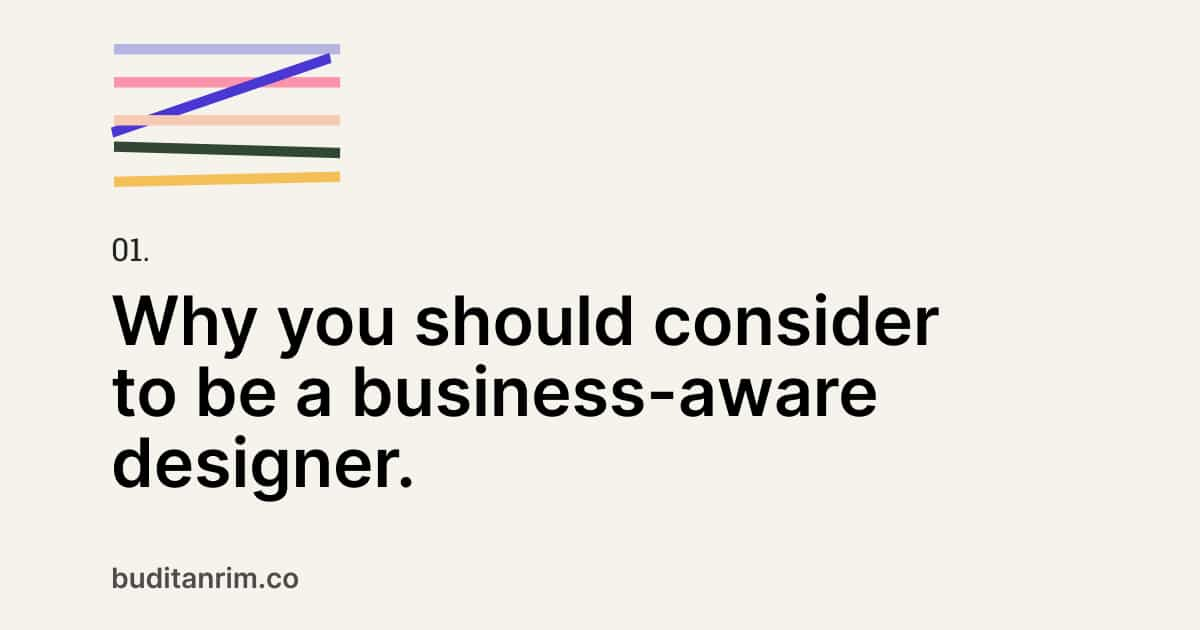
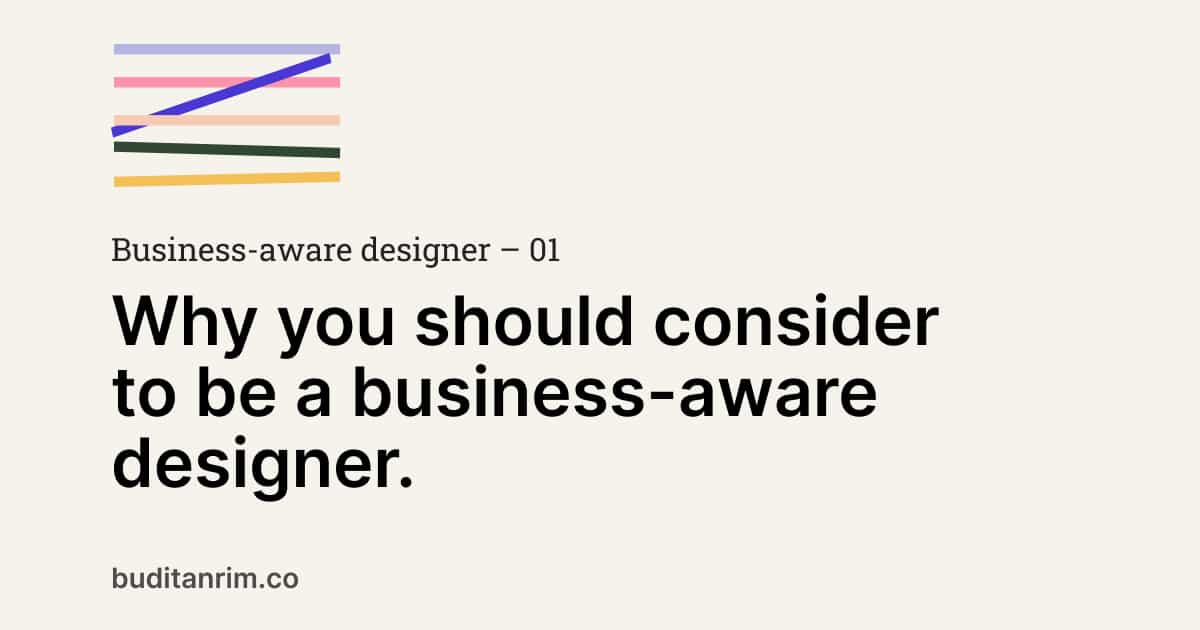
value prop

Changed region(s): [[0.0925, 0.3619, 0.4625, 0.4222]]

diff --git a/_layouts/post-index.html b/_layouts/post-index.html
@@ -23,7 +23,7 @@
 		{% for post in site.posts limit:1 %}
 		<article id="post-inner" class="col-sm-12 col-md-12 col-lg-7 col-xl-6 offset-lg-1 p-b-m mobile-p-b-xs order-lg-2">
 			<div class="post-inner--heading m-b-m">
-					<p class="t--mono-02 m-b-s">{{post.date | date:'%b %d, %Y'}}</p>
+					<p class="t--mono-02 m-b-xs">{{post.date | date:'%b %d, %Y'}}</p>
 				{% if post.punchline %}
 					<h1 class="post-inner--title t--title-01-serif">{{post.title}}</h1>
 					<p class="post-inner--subtitle t--subtitle-01 t--color-secondary m-t-01 m-b-s p-r-l">{{post.subtitle}}</p>

diff --git a/_layouts/post.html b/_layouts/post.html
@@ -4,7 +4,7 @@
 	<div class="row p-t-l mobile-p-t-m">
 		<article id="post-inner" class="col-sm-12 col-md-12 col-lg-7 offset-lg-1 col-xl-6 p-b-m mobile-p-b-xs order-lg-2">
 			<div class="post-inner--heading m-b-m">
-					<p class="t--mono-02 m-b-s">{{page.date | date:'%b %d, %Y'}}</p>
+					<p class="t--mono-02 m-b-xs">{{page.date | date:'%b %d, %Y'}}</p>
 				{% if page.punchline %}
 					<h1 class="post-inner--title t--title-01-serif">{{page.title}}</h1>
 					<p class="post-inner--subtitle t--subtitle-01 t--color-secondary m-t-01 m-b-s p-r-l">{{page.subtitle}}</p>

diff --git a/_posts/2021-01-27-business-aware-designer-value-proposition.md b/_posts/2021-01-27-business-aware-designer-value-proposition.md
@@ -1,0 +1,81 @@
+---
+layout: post
+title: "Business aware designer – Value proposition"
+punchline: true
+description: "x"
+date: 2021-01-27 08:30:00 +0700
+categories: business
+tags: value proposition
+author: "Budi Tanrim"
+
+image:
+ path: /img/seo/business-aware-02.jpg
+ height: 630
+ width: 1200
+gif: false
+twitter-seo: 
+ - "seo/business-aware-02.jpg"
+---
+
+If you are interested in broadening your view in business. My first goal in this [business-aware designer series][link-prev] is to introduce you to a few business concepts through the design lens.
+
+Today, let’s talk about the value proposition. It commonly used as:
+- A marketing communication tool
+- An alignment tool for your team on how to beat the competition
+
+---
+
+## Value proposition as an alignment tool
+A value proposition statement describes how your product or service will better solve customers' problems than other similar offerings. It's an effective tool to help your team reflect on how to win the competition.
+
+I like to see it as an alignment tool with the business team to understand (a) who are we targeting, (b) what’s their current frustration, and (c) why are we better than other products.
+
+User research have a big opportunity to contribute here. Qualitatively, you need to find three things:
+- **The job to be done:** Users' goal and overall motivation
+- **The current journey:** The current way users accomplish their goal
+- **The user problems and needs:** The problem from the existing journey
+
+As you synthesize the findings, I'd encourage to put them in the journey map. Make it simple, so non-designers can follow along. Your goal is to illustrate the customer's pain, why it happens, and how it fits in the journey.
+
+<div class="img-wrapper m-b-m">
+    <img src="https://buditanrim.co/img/post/2021/01/value-prop-journey.jpg" alt="journey for synthesize" class="illustration" />
+</div>
+
+---
+
+## The statement
+The statement can be a good reminder tool as your project progressing:
+
+<!-- **For** (target audience)<br/>
+**Who aren’t satisfied with** (current offer)
+
+**Our product helps them** (their expected outcome)<br/>
+**When** (the situation)
+
+**Unlike** (competitors)<br/>
+**We do** (emphasize the differentiation)<br/>
+**It’s better because** (rationale of why it’s better) -->
+
+<div class="img-wrapper m-b-m">
+    <img src="https://buditanrim.co/img/post/2021/01/value-prop-statement.jpg" alt="Value proposition statement" class="illustration" />
+</div>
+
+_Note: The statement will be more descriptive in product design than what will be shown on the marketing assets — the more explicit, the more effective it can align the team. While in marketing, users have short attention span, so we need to make it concise._
+
+---
+
+## Not a one-time effort
+Your team needs to understand this is not a one-time off effort. It’s a part of the discovery process for your product. You might need to iterate it a few times in the beginning. 
+
+After the product launch, your team should continually reflect on the value proposition as your team gains more knowledge and as the market evolves.
+
+---
+
+## Value proposition as a marketing communication
+From the user point of view, they will subconsciously ask these questions when they look at the marketing: Why should I consider this product? Is this product useful for me? 
+
+In practice, the value proposition statement will be helpful when we create a landing page. It’s a statement to help answers those questions they have at a glance.
+
+Notion’s landing page put it this way: **One tool for your whole team. Write, plan, and get organized.** When I read it, I understand it’s optimized for a team, not an individual. It can help us write, plan, and keep things organized.
+
+[link-prev]: https://buditanrim.co/2021/becoming-business-aware/
